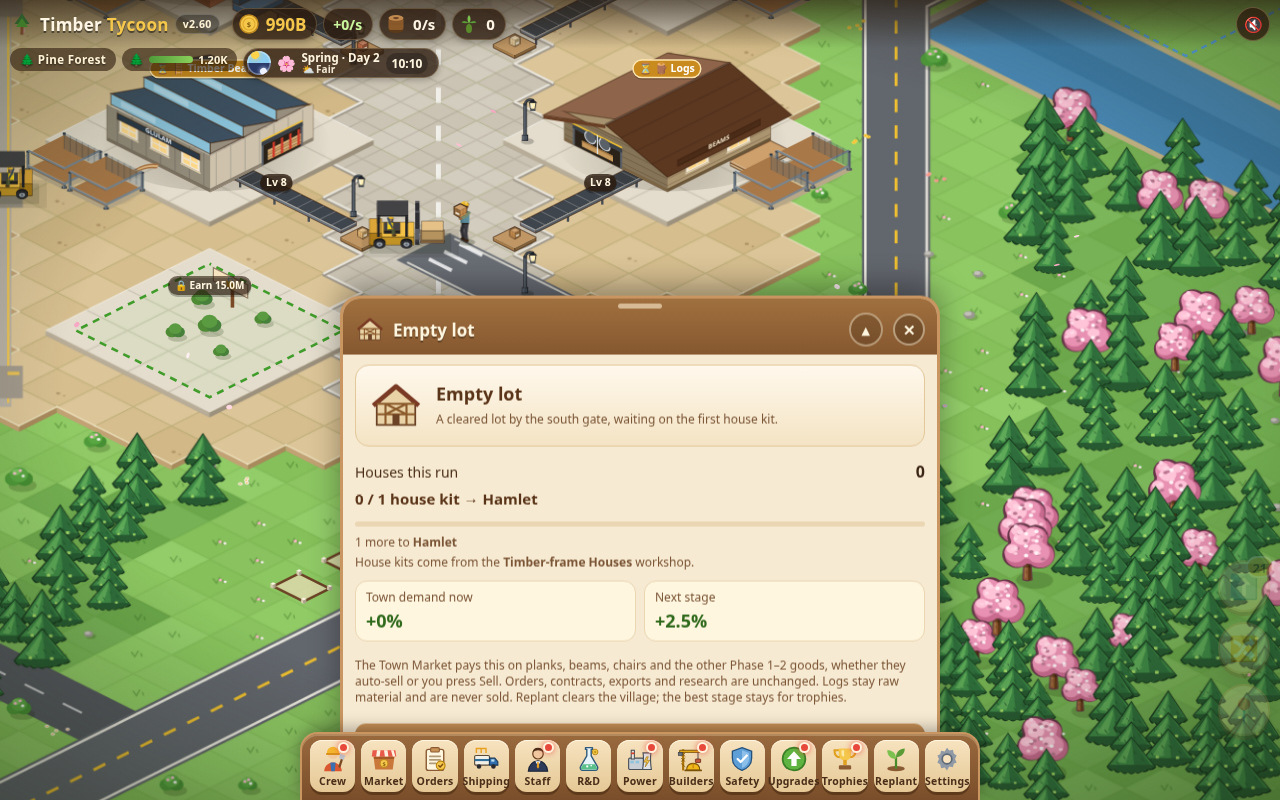
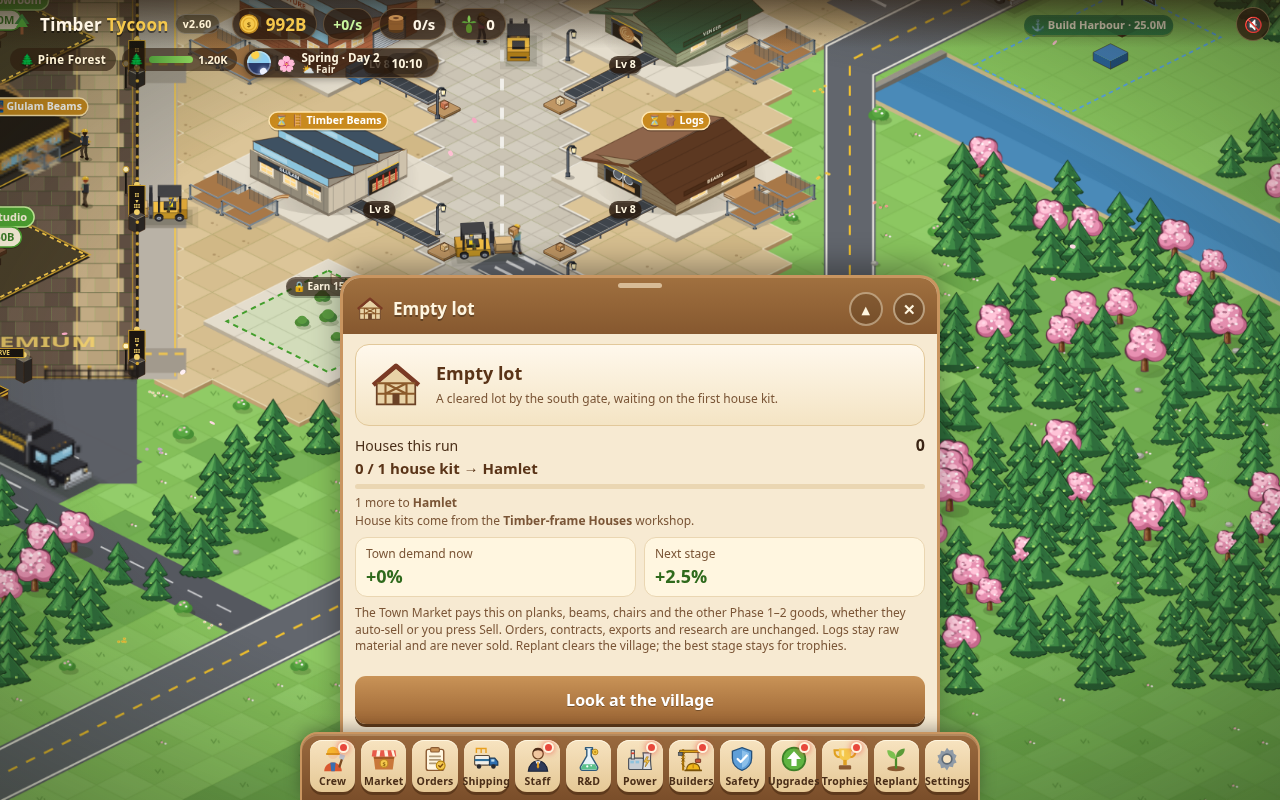
v2.60: keep Look at the village above the toolbar
The goal line and the workshop line pushed the Town sheet button
behind the bottom bar on the default sheet height. The copy now
scrolls inside the sheet and the button stays in the visible area.

diff --git a/js/game.js b/js/game.js
@@ -8361,7 +8361,8 @@ function mktFleetDraw(ctx,objs,inView){
    One more walker on a large screen, and only while graphics are not Low.
    v2.60: the empty lot draws foundation outlines and a larger sign until the first kit.
    The name stays readable at phone fit zoom. A stage-up toast has a Look action;
-   nothing moves the camera on its own, and an offline catch-up does not toast. */
+   nothing moves the camera on its own, and an offline catch-up does not toast.
+   The sheet's Look button stays in the visible half-height sheet, above the toolbar. */
 const TOWN_STAGES=[
   {n:0,name:'Empty lot',say:'A cleared lot by the south gate, waiting on the first house kit.'},
   {n:1,name:'Hamlet',say:'One timber-frame cottage, a garden and a tree.'},
@@ -8989,14 +8990,14 @@ function townSheetHtml(){
   const cur='+'+townPctLabel()+'%', nxt=nx?'+'+((s+1)*2.5).toFixed(1).replace(/\.0$/,'')+'%':'at the cap';
   const goal=townGoalText();
   const src=(typeof BMAP!=='undefined'&&BMAP.framer&&BMAP.framer.name)||'Timber-frame Houses';
-  return `<div class="town-hero"><div class="town-ic">${svgIcon('houses',56)}</div><div><div class="town-stage">${st.name}</div><div class="legend">${st.say}</div></div></div>
+  return `<div class="town-scroll"><div class="town-hero"><div class="town-ic">${svgIcon('houses',56)}</div><div><div class="town-stage">${st.name}</div><div class="legend">${st.say}</div></div></div>
     <div class="town-row"><span>Houses this run</span><b>${fmt(made, made<10&&made%1?1:0)}</b></div>
     ${goal?`<div class="town-goal">${goal}</div>`:''}
     <div class="pbar town-bar"><i style="width:${pct.toFixed(1)}%"></i></div>
     <div class="legend">${nx?`${fmt(Math.max(0,nx.n-made))} more to <b>${nx.name}</b>`:'Timber Town is built. The demand bonus is at its cap.'}</div>
     <div class="legend town-src">House kits come from the <b>${src}</b> workshop.</div>
     <div class="town-bonus"><div class="b"><div class="legend">Town demand now</div><b>${cur}</b></div><div class="b"><div class="legend">${nx?'Next stage':'Cap'}</div><b>${nxt}</b></div></div>
-    <p class="legend">The Town Market pays this on planks, beams, chairs and the other Phase 1–2 goods, whether they auto-sell or you press Sell. Orders, contracts, exports and research are unchanged. Logs stay raw material and are never sold. Replant clears the village; the best stage stays for trophies.</p>
+    <p class="legend">The Town Market pays this on planks, beams, chairs and the other Phase 1–2 goods, whether they auto-sell or you press Sell. Orders, contracts, exports and research are unchanged. Logs stay raw material and are never sold. Replant clears the village; the best stage stays for trophies.</p></div>
     <button class="btn wood" id="townLook" type="button">Look at the village</button>`;
 }
 function townUpdate(){
@@ -11765,11 +11766,13 @@ function setupSheetGestures(){
   head.addEventListener('pointermove',e=>{if(SH.drag) sheetDragMove(e.clientY);});
   const up=e=>{if(!SH.drag) return;const moved=SH.drag.moved;const r=sheetDragEnd();if(!moved&&e.type==='pointerup'&&r===null&&!railMode()) setSheetState(SH.state==='full'?'half':'full');};
   head.addEventListener('pointerup',up);head.addEventListener('pointercancel',up);
-  // pulling the content down while it is scrolled to the top drags the sheet (swipe-down to close)
+  // pulling the content down while it is scrolled to the top drags the sheet (swipe-down to close).
+  // A nested scroller (the Town sheet copy) counts: only its own top edge starts the drag.
   let BS=null;
-  body.addEventListener('touchstart',e=>{if(e.touches.length!==1){BS=null;return;}BS={y0:e.touches[0].clientY,top:body.scrollTop<=0,active:false};},{passive:true});
+  const atTop=from=>{let n=from&&from.nodeType===1?from:from&&from.parentElement;while(n){if(n.scrollHeight>n.clientHeight+2){const oy=getComputedStyle(n).overflowY;if((n===body||oy==='auto'||oy==='scroll')&&n.scrollTop>0)return false;}if(n===body)break;n=n.parentElement;}return true;};
+  body.addEventListener('touchstart',e=>{if(e.touches.length!==1){BS=null;return;}BS={y0:e.touches[0].clientY,top:atTop(e.target),active:false};},{passive:true});
   body.addEventListener('touchmove',e=>{if(!BS||!BS.top) return;const y=e.touches[0].clientY,dy=y-BS.y0;
-    if(!BS.active){if(dy<-4){BS.top=false;return;} if(dy>10&&body.scrollTop<=0){BS.active=true;sheetDragStart(BS.y0+10);}}
+    if(!BS.active){if(dy<-4){BS.top=false;return;} if(dy>10&&atTop(e.target)){BS.active=true;sheetDragStart(BS.y0+10);}}
     if(BS.active){if(e.cancelable) e.preventDefault();sheetDragMove(y);}},{passive:false});
   const tend=()=>{if(BS&&BS.active) sheetDragEnd();BS=null;};
   body.addEventListener('touchend',tend);body.addEventListener('touchcancel',tend);

diff --git a/releases/v2.60/js/game.js b/releases/v2.60/js/game.js
@@ -8361,7 +8361,8 @@ function mktFleetDraw(ctx,objs,inView){
    One more walker on a large screen, and only while graphics are not Low.
    v2.60: the empty lot draws foundation outlines and a larger sign until the first kit.
    The name stays readable at phone fit zoom. A stage-up toast has a Look action;
-   nothing moves the camera on its own, and an offline catch-up does not toast. */
+   nothing moves the camera on its own, and an offline catch-up does not toast.
+   The sheet's Look button stays in the visible half-height sheet, above the toolbar. */
 const TOWN_STAGES=[
   {n:0,name:'Empty lot',say:'A cleared lot by the south gate, waiting on the first house kit.'},
   {n:1,name:'Hamlet',say:'One timber-frame cottage, a garden and a tree.'},
@@ -8989,14 +8990,14 @@ function townSheetHtml(){
   const cur='+'+townPctLabel()+'%', nxt=nx?'+'+((s+1)*2.5).toFixed(1).replace(/\.0$/,'')+'%':'at the cap';
   const goal=townGoalText();
   const src=(typeof BMAP!=='undefined'&&BMAP.framer&&BMAP.framer.name)||'Timber-frame Houses';
-  return `<div class="town-hero"><div class="town-ic">${svgIcon('houses',56)}</div><div><div class="town-stage">${st.name}</div><div class="legend">${st.say}</div></div></div>
+  return `<div class="town-scroll"><div class="town-hero"><div class="town-ic">${svgIcon('houses',56)}</div><div><div class="town-stage">${st.name}</div><div class="legend">${st.say}</div></div></div>
     <div class="town-row"><span>Houses this run</span><b>${fmt(made, made<10&&made%1?1:0)}</b></div>
     ${goal?`<div class="town-goal">${goal}</div>`:''}
     <div class="pbar town-bar"><i style="width:${pct.toFixed(1)}%"></i></div>
     <div class="legend">${nx?`${fmt(Math.max(0,nx.n-made))} more to <b>${nx.name}</b>`:'Timber Town is built. The demand bonus is at its cap.'}</div>
     <div class="legend town-src">House kits come from the <b>${src}</b> workshop.</div>
     <div class="town-bonus"><div class="b"><div class="legend">Town demand now</div><b>${cur}</b></div><div class="b"><div class="legend">${nx?'Next stage':'Cap'}</div><b>${nxt}</b></div></div>
-    <p class="legend">The Town Market pays this on planks, beams, chairs and the other Phase 1–2 goods, whether they auto-sell or you press Sell. Orders, contracts, exports and research are unchanged. Logs stay raw material and are never sold. Replant clears the village; the best stage stays for trophies.</p>
+    <p class="legend">The Town Market pays this on planks, beams, chairs and the other Phase 1–2 goods, whether they auto-sell or you press Sell. Orders, contracts, exports and research are unchanged. Logs stay raw material and are never sold. Replant clears the village; the best stage stays for trophies.</p></div>
     <button class="btn wood" id="townLook" type="button">Look at the village</button>`;
 }
 function townUpdate(){
@@ -11765,11 +11766,13 @@ function setupSheetGestures(){
   head.addEventListener('pointermove',e=>{if(SH.drag) sheetDragMove(e.clientY);});
   const up=e=>{if(!SH.drag) return;const moved=SH.drag.moved;const r=sheetDragEnd();if(!moved&&e.type==='pointerup'&&r===null&&!railMode()) setSheetState(SH.state==='full'?'half':'full');};
   head.addEventListener('pointerup',up);head.addEventListener('pointercancel',up);
-  // pulling the content down while it is scrolled to the top drags the sheet (swipe-down to close)
+  // pulling the content down while it is scrolled to the top drags the sheet (swipe-down to close).
+  // A nested scroller (the Town sheet copy) counts: only its own top edge starts the drag.
   let BS=null;
-  body.addEventListener('touchstart',e=>{if(e.touches.length!==1){BS=null;return;}BS={y0:e.touches[0].clientY,top:body.scrollTop<=0,active:false};},{passive:true});
+  const atTop=from=>{let n=from&&from.nodeType===1?from:from&&from.parentElement;while(n){if(n.scrollHeight>n.clientHeight+2){const oy=getComputedStyle(n).overflowY;if((n===body||oy==='auto'||oy==='scroll')&&n.scrollTop>0)return false;}if(n===body)break;n=n.parentElement;}return true;};
+  body.addEventListener('touchstart',e=>{if(e.touches.length!==1){BS=null;return;}BS={y0:e.touches[0].clientY,top:atTop(e.target),active:false};},{passive:true});
   body.addEventListener('touchmove',e=>{if(!BS||!BS.top) return;const y=e.touches[0].clientY,dy=y-BS.y0;
-    if(!BS.active){if(dy<-4){BS.top=false;return;} if(dy>10&&body.scrollTop<=0){BS.active=true;sheetDragStart(BS.y0+10);}}
+    if(!BS.active){if(dy<-4){BS.top=false;return;} if(dy>10&&atTop(e.target)){BS.active=true;sheetDragStart(BS.y0+10);}}
     if(BS.active){if(e.cancelable) e.preventDefault();sheetDragMove(y);}},{passive:false});
   const tend=()=>{if(BS&&BS.active) sheetDragEnd();BS=null;};
   body.addEventListener('touchend',tend);body.addEventListener('touchcancel',tend);

diff --git a/js/town.js b/js/town.js
@@ -18,7 +18,8 @@
    One more walker on a large screen, and only while graphics are not Low.
    v2.60: the empty lot draws foundation outlines and a larger sign until the first kit.
    The name stays readable at phone fit zoom. A stage-up toast has a Look action;
-   nothing moves the camera on its own, and an offline catch-up does not toast. */
+   nothing moves the camera on its own, and an offline catch-up does not toast.
+   The sheet's Look button stays in the visible half-height sheet, above the toolbar. */
 const TOWN_STAGES=[
   {n:0,name:'Empty lot',say:'A cleared lot by the south gate, waiting on the first house kit.'},
   {n:1,name:'Hamlet',say:'One timber-frame cottage, a garden and a tree.'},
@@ -646,14 +647,14 @@ function townSheetHtml(){
   const cur='+'+townPctLabel()+'%', nxt=nx?'+'+((s+1)*2.5).toFixed(1).replace(/\.0$/,'')+'%':'at the cap';
   const goal=townGoalText();
   const src=(typeof BMAP!=='undefined'&&BMAP.framer&&BMAP.framer.name)||'Timber-frame Houses';
-  return `<div class="town-hero"><div class="town-ic">${svgIcon('houses',56)}</div><div><div class="town-stage">${st.name}</div><div class="legend">${st.say}</div></div></div>
+  return `<div class="town-scroll"><div class="town-hero"><div class="town-ic">${svgIcon('houses',56)}</div><div><div class="town-stage">${st.name}</div><div class="legend">${st.say}</div></div></div>
     <div class="town-row"><span>Houses this run</span><b>${fmt(made, made<10&&made%1?1:0)}</b></div>
     ${goal?`<div class="town-goal">${goal}</div>`:''}
     <div class="pbar town-bar"><i style="width:${pct.toFixed(1)}%"></i></div>
     <div class="legend">${nx?`${fmt(Math.max(0,nx.n-made))} more to <b>${nx.name}</b>`:'Timber Town is built. The demand bonus is at its cap.'}</div>
     <div class="legend town-src">House kits come from the <b>${src}</b> workshop.</div>
     <div class="town-bonus"><div class="b"><div class="legend">Town demand now</div><b>${cur}</b></div><div class="b"><div class="legend">${nx?'Next stage':'Cap'}</div><b>${nxt}</b></div></div>
-    <p class="legend">The Town Market pays this on planks, beams, chairs and the other Phase 1–2 goods, whether they auto-sell or you press Sell. Orders, contracts, exports and research are unchanged. Logs stay raw material and are never sold. Replant clears the village; the best stage stays for trophies.</p>
+    <p class="legend">The Town Market pays this on planks, beams, chairs and the other Phase 1–2 goods, whether they auto-sell or you press Sell. Orders, contracts, exports and research are unchanged. Logs stay raw material and are never sold. Replant clears the village; the best stage stays for trophies.</p></div>
     <button class="btn wood" id="townLook" type="button">Look at the village</button>`;
 }
 function townUpdate(){

diff --git a/releases/v2.60/js/town.js b/releases/v2.60/js/town.js
@@ -18,7 +18,8 @@
    One more walker on a large screen, and only while graphics are not Low.
    v2.60: the empty lot draws foundation outlines and a larger sign until the first kit.
    The name stays readable at phone fit zoom. A stage-up toast has a Look action;
-   nothing moves the camera on its own, and an offline catch-up does not toast. */
+   nothing moves the camera on its own, and an offline catch-up does not toast.
+   The sheet's Look button stays in the visible half-height sheet, above the toolbar. */
 const TOWN_STAGES=[
   {n:0,name:'Empty lot',say:'A cleared lot by the south gate, waiting on the first house kit.'},
   {n:1,name:'Hamlet',say:'One timber-frame cottage, a garden and a tree.'},
@@ -646,14 +647,14 @@ function townSheetHtml(){
   const cur='+'+townPctLabel()+'%', nxt=nx?'+'+((s+1)*2.5).toFixed(1).replace(/\.0$/,'')+'%':'at the cap';
   const goal=townGoalText();
   const src=(typeof BMAP!=='undefined'&&BMAP.framer&&BMAP.framer.name)||'Timber-frame Houses';
-  return `<div class="town-hero"><div class="town-ic">${svgIcon('houses',56)}</div><div><div class="town-stage">${st.name}</div><div class="legend">${st.say}</div></div></div>
+  return `<div class="town-scroll"><div class="town-hero"><div class="town-ic">${svgIcon('houses',56)}</div><div><div class="town-stage">${st.name}</div><div class="legend">${st.say}</div></div></div>
     <div class="town-row"><span>Houses this run</span><b>${fmt(made, made<10&&made%1?1:0)}</b></div>
     ${goal?`<div class="town-goal">${goal}</div>`:''}
     <div class="pbar town-bar"><i style="width:${pct.toFixed(1)}%"></i></div>
     <div class="legend">${nx?`${fmt(Math.max(0,nx.n-made))} more to <b>${nx.name}</b>`:'Timber Town is built. The demand bonus is at its cap.'}</div>
     <div class="legend town-src">House kits come from the <b>${src}</b> workshop.</div>
     <div class="town-bonus"><div class="b"><div class="legend">Town demand now</div><b>${cur}</b></div><div class="b"><div class="legend">${nx?'Next stage':'Cap'}</div><b>${nxt}</b></div></div>
-    <p class="legend">The Town Market pays this on planks, beams, chairs and the other Phase 1–2 goods, whether they auto-sell or you press Sell. Orders, contracts, exports and research are unchanged. Logs stay raw material and are never sold. Replant clears the village; the best stage stays for trophies.</p>
+    <p class="legend">The Town Market pays this on planks, beams, chairs and the other Phase 1–2 goods, whether they auto-sell or you press Sell. Orders, contracts, exports and research are unchanged. Logs stay raw material and are never sold. Replant clears the village; the best stage stays for trophies.</p></div>
     <button class="btn wood" id="townLook" type="button">Look at the village</button>`;
 }
 function townUpdate(){

diff --git a/js/mobile.js b/js/mobile.js
@@ -162,11 +162,13 @@ function setupSheetGestures(){
   head.addEventListener('pointermove',e=>{if(SH.drag) sheetDragMove(e.clientY);});
   const up=e=>{if(!SH.drag) return;const moved=SH.drag.moved;const r=sheetDragEnd();if(!moved&&e.type==='pointerup'&&r===null&&!railMode()) setSheetState(SH.state==='full'?'half':'full');};
   head.addEventListener('pointerup',up);head.addEventListener('pointercancel',up);
-  // pulling the content down while it is scrolled to the top drags the sheet (swipe-down to close)
+  // pulling the content down while it is scrolled to the top drags the sheet (swipe-down to close).
+  // A nested scroller (the Town sheet copy) counts: only its own top edge starts the drag.
   let BS=null;
-  body.addEventListener('touchstart',e=>{if(e.touches.length!==1){BS=null;return;}BS={y0:e.touches[0].clientY,top:body.scrollTop<=0,active:false};},{passive:true});
+  const atTop=from=>{let n=from&&from.nodeType===1?from:from&&from.parentElement;while(n){if(n.scrollHeight>n.clientHeight+2){const oy=getComputedStyle(n).overflowY;if((n===body||oy==='auto'||oy==='scroll')&&n.scrollTop>0)return false;}if(n===body)break;n=n.parentElement;}return true;};
+  body.addEventListener('touchstart',e=>{if(e.touches.length!==1){BS=null;return;}BS={y0:e.touches[0].clientY,top:atTop(e.target),active:false};},{passive:true});
   body.addEventListener('touchmove',e=>{if(!BS||!BS.top) return;const y=e.touches[0].clientY,dy=y-BS.y0;
-    if(!BS.active){if(dy<-4){BS.top=false;return;} if(dy>10&&body.scrollTop<=0){BS.active=true;sheetDragStart(BS.y0+10);}}
+    if(!BS.active){if(dy<-4){BS.top=false;return;} if(dy>10&&atTop(e.target)){BS.active=true;sheetDragStart(BS.y0+10);}}
     if(BS.active){if(e.cancelable) e.preventDefault();sheetDragMove(y);}},{passive:false});
   const tend=()=>{if(BS&&BS.active) sheetDragEnd();BS=null;};
   body.addEventListener('touchend',tend);body.addEventListener('touchcancel',tend);

diff --git a/releases/v2.60/js/mobile.js b/releases/v2.60/js/mobile.js
@@ -162,11 +162,13 @@ function setupSheetGestures(){
   head.addEventListener('pointermove',e=>{if(SH.drag) sheetDragMove(e.clientY);});
   const up=e=>{if(!SH.drag) return;const moved=SH.drag.moved;const r=sheetDragEnd();if(!moved&&e.type==='pointerup'&&r===null&&!railMode()) setSheetState(SH.state==='full'?'half':'full');};
   head.addEventListener('pointerup',up);head.addEventListener('pointercancel',up);
-  // pulling the content down while it is scrolled to the top drags the sheet (swipe-down to close)
+  // pulling the content down while it is scrolled to the top drags the sheet (swipe-down to close).
+  // A nested scroller (the Town sheet copy) counts: only its own top edge starts the drag.
   let BS=null;
-  body.addEventListener('touchstart',e=>{if(e.touches.length!==1){BS=null;return;}BS={y0:e.touches[0].clientY,top:body.scrollTop<=0,active:false};},{passive:true});
+  const atTop=from=>{let n=from&&from.nodeType===1?from:from&&from.parentElement;while(n){if(n.scrollHeight>n.clientHeight+2){const oy=getComputedStyle(n).overflowY;if((n===body||oy==='auto'||oy==='scroll')&&n.scrollTop>0)return false;}if(n===body)break;n=n.parentElement;}return true;};
+  body.addEventListener('touchstart',e=>{if(e.touches.length!==1){BS=null;return;}BS={y0:e.touches[0].clientY,top:atTop(e.target),active:false};},{passive:true});
   body.addEventListener('touchmove',e=>{if(!BS||!BS.top) return;const y=e.touches[0].clientY,dy=y-BS.y0;
-    if(!BS.active){if(dy<-4){BS.top=false;return;} if(dy>10&&body.scrollTop<=0){BS.active=true;sheetDragStart(BS.y0+10);}}
+    if(!BS.active){if(dy<-4){BS.top=false;return;} if(dy>10&&atTop(e.target)){BS.active=true;sheetDragStart(BS.y0+10);}}
     if(BS.active){if(e.cancelable) e.preventDefault();sheetDragMove(y);}},{passive:false});
   const tend=()=>{if(BS&&BS.active) sheetDragEnd();BS=null;};
   body.addEventListener('touchend',tend);body.addEventListener('touchcancel',tend);

diff --git a/css/style.css b/css/style.css
@@ -178,6 +178,12 @@ button{font:inherit;color:inherit}
 .toast.town-toast{flex-wrap:wrap;align-items:center}
 .toast .toast-look{flex:none;margin-left:auto;min-height:32px;padding:4px 12px;border-radius:10px;border:2px solid #8a5a2b;background:#fff6e0;color:#5a3418;font:inherit;font-weight:900;cursor:pointer}
 .town-card{display:flex;flex-direction:column;gap:2px}
+/* v2.60: the goal line and the workshop line outgrew the default sheet. The copy scrolls;
+   Look at the village stays in the visible sheet, above the toolbar. */
+#sheet[data-s="town"] .sh-body{display:flex;flex-direction:column;overflow:hidden;min-height:0}
+#sheet[data-s="town"] #pane-town{display:flex;flex-direction:column;flex:1 1 auto;min-height:0}
+#sheet[data-s="town"] .town-card{flex:1 1 auto;min-height:0}
+.town-scroll{flex:1 1 auto;min-height:0;overflow:auto;-webkit-overflow-scrolling:touch;overscroll-behavior:contain}
 .town-hero{display:flex;gap:12px;align-items:center;background:linear-gradient(180deg,#fff8ec,#f4e4c4);border:1px solid #e2c89a;border-radius:14px;padding:12px;margin-bottom:8px}
 .town-ic{width:56px;height:56px;flex:0 0 56px}
 .town-stage{font-size:18px;font-weight:800;color:#5a3418;line-height:1.2}
@@ -188,7 +194,7 @@ button{font:inherit;color:inherit}
 .town-bonus .b{flex:1;min-width:0;background:#fff6e0;border:1px solid #ead6b2;border-radius:12px;padding:8px 10px}
 .town-bonus .b .legend{margin:0}
 .town-bonus .b b{display:block;margin-top:2px;color:#2f6a1c;font-size:18px}
-#townLook{min-height:48px;width:100%;margin-top:4px}
+#townLook{flex:none;min-height:48px;width:100%;margin-top:8px}
 .town-flow{margin-top:4px}
 .hint{font-size:13px;color:var(--ink2);background:#fff8ea;border:1.5px dashed var(--line);padding:10px;border-radius:12px;text-align:center}
 /* buttons */

diff --git a/releases/v2.60/css/style.css b/releases/v2.60/css/style.css
@@ -178,6 +178,12 @@ button{font:inherit;color:inherit}
 .toast.town-toast{flex-wrap:wrap;align-items:center}
 .toast .toast-look{flex:none;margin-left:auto;min-height:32px;padding:4px 12px;border-radius:10px;border:2px solid #8a5a2b;background:#fff6e0;color:#5a3418;font:inherit;font-weight:900;cursor:pointer}
 .town-card{display:flex;flex-direction:column;gap:2px}
+/* v2.60: the goal line and the workshop line outgrew the default sheet. The copy scrolls;
+   Look at the village stays in the visible sheet, above the toolbar. */
+#sheet[data-s="town"] .sh-body{display:flex;flex-direction:column;overflow:hidden;min-height:0}
+#sheet[data-s="town"] #pane-town{display:flex;flex-direction:column;flex:1 1 auto;min-height:0}
+#sheet[data-s="town"] .town-card{flex:1 1 auto;min-height:0}
+.town-scroll{flex:1 1 auto;min-height:0;overflow:auto;-webkit-overflow-scrolling:touch;overscroll-behavior:contain}
 .town-hero{display:flex;gap:12px;align-items:center;background:linear-gradient(180deg,#fff8ec,#f4e4c4);border:1px solid #e2c89a;border-radius:14px;padding:12px;margin-bottom:8px}
 .town-ic{width:56px;height:56px;flex:0 0 56px}
 .town-stage{font-size:18px;font-weight:800;color:#5a3418;line-height:1.2}
@@ -188,7 +194,7 @@ button{font:inherit;color:inherit}
 .town-bonus .b{flex:1;min-width:0;background:#fff6e0;border:1px solid #ead6b2;border-radius:12px;padding:8px 10px}
 .town-bonus .b .legend{margin:0}
 .town-bonus .b b{display:block;margin-top:2px;color:#2f6a1c;font-size:18px}
-#townLook{min-height:48px;width:100%;margin-top:4px}
+#townLook{flex:none;min-height:48px;width:100%;margin-top:8px}
 .town-flow{margin-top:4px}
 .hint{font-size:13px;color:var(--ink2);background:#fff8ea;border:1.5px dashed var(--line);padding:10px;border-radius:12px;text-align:center}
 /* buttons */

diff --git a/test/v260.py b/test/v260.py
@@ -6,7 +6,7 @@ from playwright.sync_api import sync_playwright
 import os, sys, json, re
 sys.path.insert(0, os.path.dirname(os.path.abspath(__file__)))
 from _server import URL, BASE, ROOT, ver
-from _pace import ready, paint, touch_at
+from _pace import ready, paint, touch_at, until
 from shots import shot_path
 FAILS=[]
 def ok(c, msg):
@@ -59,6 +59,37 @@ def shot_clean(pg):
     E(pg, QUIET)
     E(pg, r'''()=>{if(typeof checkAch==="function")checkAch(true);if(typeof ntClear==="function")ntClear();document.querySelectorAll(".toast,.confetti,.modal-bg").forEach(e=>e.remove());const f=document.getElementById("fxLayer");if(f)f.innerHTML="";if(scene.particles)scene.particles.length=0;}''')
     paint(pg, 2)
+LOOK=r'''()=>{const b=document.getElementById("townLook"); if(!b) return null;
+  const r=b.getBoundingClientRect(); const bar=document.getElementById("bottombar").getBoundingClientRect();
+  const fab=document.getElementById("fabs"); const op=fab?+getComputedStyle(fab).opacity:0;
+  const f=fab?fab.getBoundingClientRect():null;
+  const overlap=!!(op>0.2&&f&&r.right>f.left&&r.left<f.right&&r.bottom>f.top&&r.top<f.bottom);
+  const mid=document.elementFromPoint(r.left+r.width/2, r.top+r.height/2);
+  const on=!!(mid&&(mid.id==="townLook"||(mid.closest&&mid.closest("#townLook"))));
+  const body=document.getElementById("shBody");
+  return {top:+r.top.toFixed(1),bot:+r.bottom.toFixed(1),l:+r.left.toFixed(1),ri:+r.right.toFixed(1),h:+r.height.toFixed(1),
+    vw:innerWidth,vh:innerHeight,bar:+bar.top.toFixed(1),scroll:body?body.scrollTop:0,
+    above:r.bottom<=bar.top+0.5,inView:r.top>=-0.5&&r.left>=-0.5&&r.right<=innerWidth+0.5&&r.bottom<=innerHeight+0.5,overlap,on};}'''
+def settle_sheet(pg):
+    # The sheet slides up for 240ms. Measure it at rest, not halfway down the screen.
+    E(pg, 'window.__lookY=null')
+    until(pg, r'''()=>{const sh=document.getElementById("sheet"); if(!sh||!sh.classList.contains("open")) return false;
+      const t=getComputedStyle(sh).transform||"none"; let ty=0; const m=t.match(/matrix\(([^)]+)\)/);
+      if(m) ty=parseFloat(m[1].split(",")[5])||0; if(Math.abs(ty)>0.8) return false;
+      const b=document.getElementById("townLook"); if(!b) return false;
+      const y=b.getBoundingClientRect().bottom; const p=window.__lookY; window.__lookY=y;
+      return p!=null && Math.abs(p-y)<0.35;}''')
+def town_look(pg, label):
+    # Default half-height sheet, stage 0 (both new lines), no scroll. The button has to clear the toolbar on its own.
+    E(pg, r'''()=>{S.town.made=0;S.town.stage=0;S.town.seen=0;townStage();openSheet("town");
+      const b=document.getElementById("shBody"); if(b) b.scrollTop=0;
+      const s=document.querySelector(".town-scroll"); if(s) s.scrollTop=0;}''')
+    settle_sheet(pg)
+    paint(pg, 2)
+    geo=E(pg, LOOK)
+    ok(geo and geo['h']>=44 and geo['above'] and geo['inView'] and geo['on'] and not geo['overlap'] and geo['scroll']==0,
+       f'{label}: Look at the village is fully above the toolbar and inside the viewport ({geo})')
+    E(pg, 'closeSheet()')
 def click_dom(pg, sel, phone=False):
     loc=pg.locator(sel).first
     try:
@@ -175,10 +206,12 @@ with sync_playwright() as p:
     E(pg, 'closeSheet()')
     for made in (1, 250000):
         houses(pg, made, f'desktop 1280×800 stage made={made}')
+    town_look(pg, 'desktop 1280×800')
     pg.close()
     pg=page(vp={'width':1920,'height':1080}); E(pg, QUIET)
     houses(pg, 25, 'desktop 1920×1080')
     houses(pg, 250000, 'desktop 1920×1080 Timber Town')
+    town_look(pg, 'desktop 1920×1080')
     pg.close()
     pg=page('iPhone 13'); E(pg, QUIET)
     houses(pg, 1, 'iPhone 13 hamlet')
@@ -227,6 +260,7 @@ with sync_playwright() as p:
     paint(pg, 2)
     look=E(pg, r'''()=>{const b=document.querySelector(".toast-look"); if(!b) return null; const r=b.getBoundingClientRect(); const t=b.closest(".toast").getBoundingClientRect(); return {h:r.height,w:r.width,top:r.top,bot:r.bottom,clip:r.bottom<=t.bottom+1&&r.top>=t.top-1,vh:innerHeight};}''')
     ok(look and look['h']>=43.5 and look['clip'] and look['top']>0 and look['bot']<look['vh'], f'iPhone Look button is fully visible ({look})')
+    town_look(pg, 'iPhone 13')
     pg.close()
     # ---- opening view and opening script match v2.59 ----
     fresh={}
@@ -267,7 +301,7 @@ with sync_playwright() as p:
     pg.screenshot(path=shot_path('stage0-lot.png'))
     E(pg, r'''()=>{S.town.made=0;townStage();openSheet("town");TT.render();}''')
     paint(pg, 2); shot_clean(pg)
-    E(pg, 'openSheet("town")'); paint(pg, 2)
+    E(pg, 'openSheet("town")'); settle_sheet(pg); paint(pg, 2)
     pg.screenshot(path=shot_path('town-sheet.png'))
     pg.close()
     pg=page('iPhone 13'); E(pg, QUIET)

diff --git a/CHANGELOG.md b/CHANGELOG.md
@@ -19,6 +19,9 @@ and this project uses [Semantic Versioning](https://semver.org/).
 ### Changed
 - Once a cottage exists, the fit view includes it and leaves a gap above the bottom bar, on a desktop and on a phone. Before that first kit the frame is the v2.59 frame.
 
+### Fixed
+- **Look at the village** stays in the visible Town sheet. The goal line and the workshop line had pushed the button behind the bottom bar until you scrolled. The copy scrolls; the button does not.
+
 ### Unchanged
 Recipes, prices, town demand percentages and order rewards. Logs stay raw material and are never sold. Residents still do not walk on roofs or chimneys. Low graphics draws the same village it drew in v2.58. A save from v2.59, v2.58, v2.55, v2.39 or v2.24 still loads. The first minutes of a run match v2.59.
 
